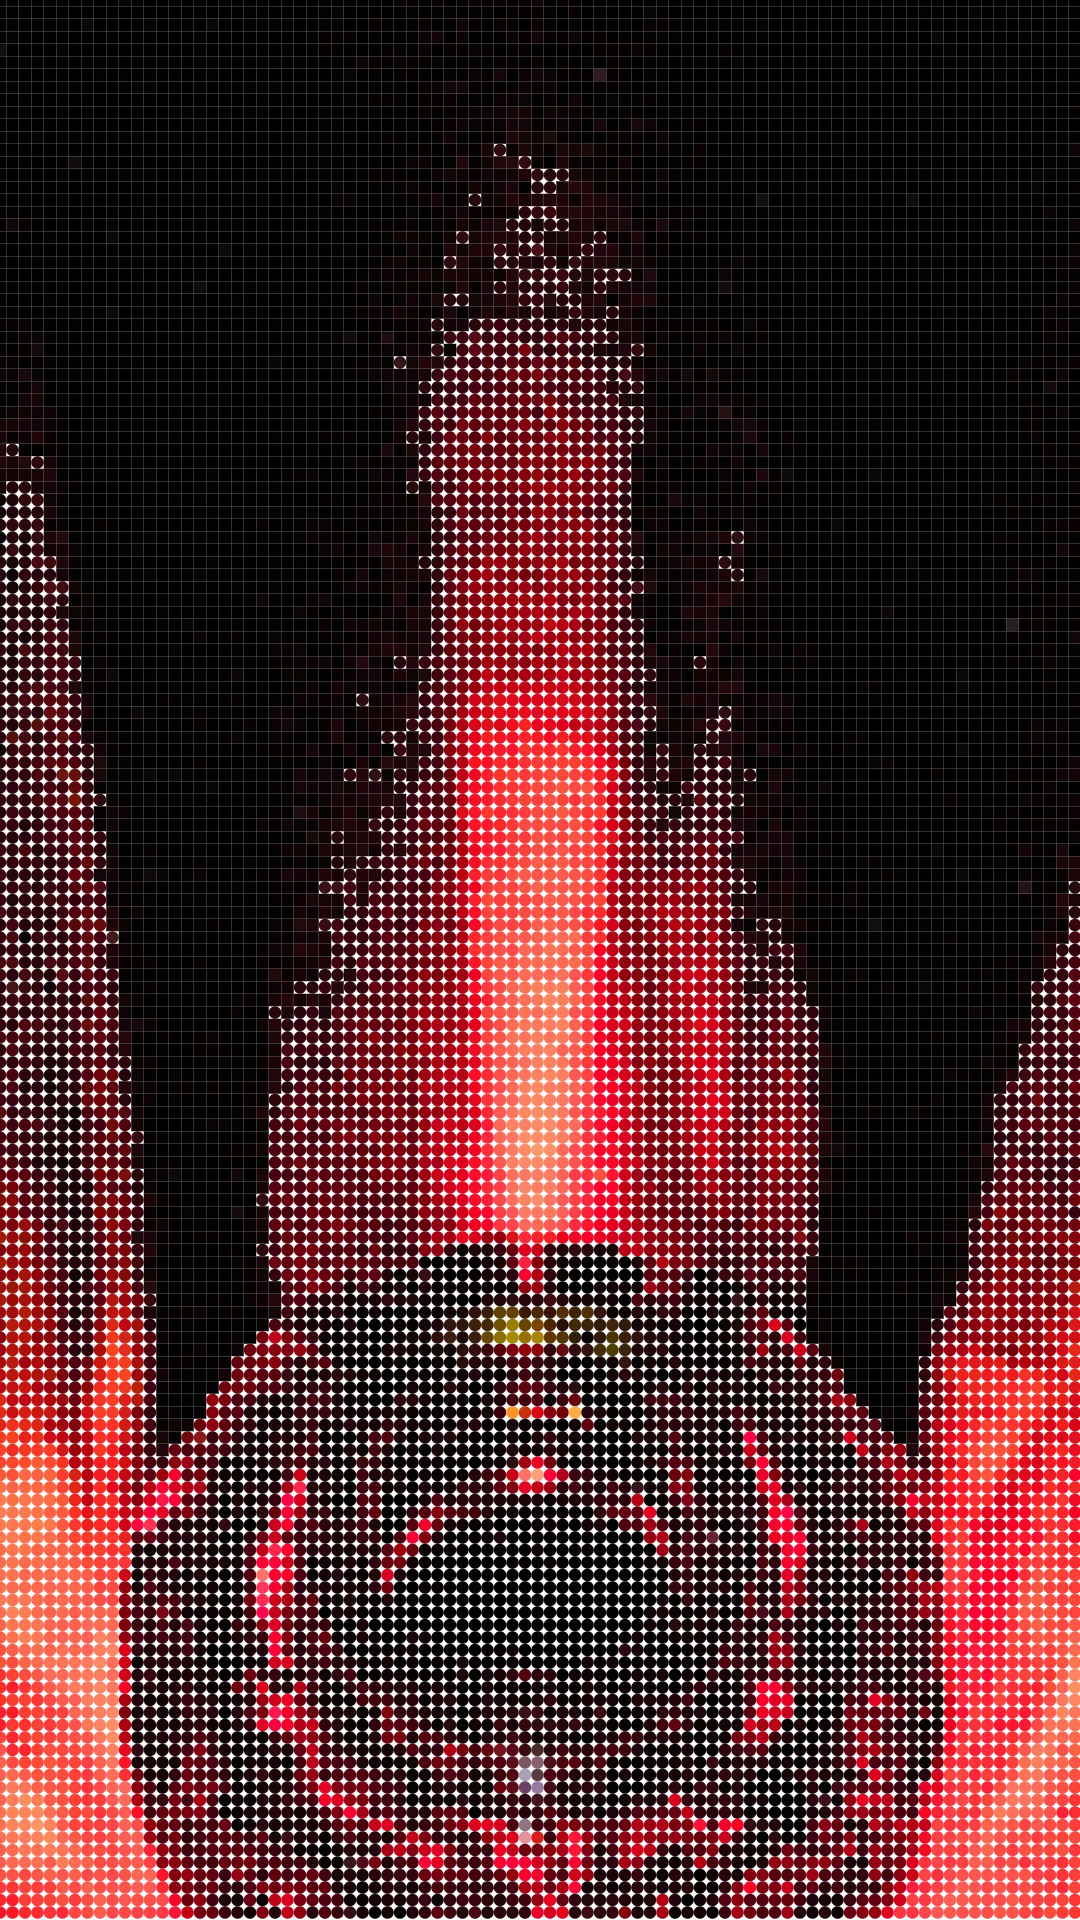
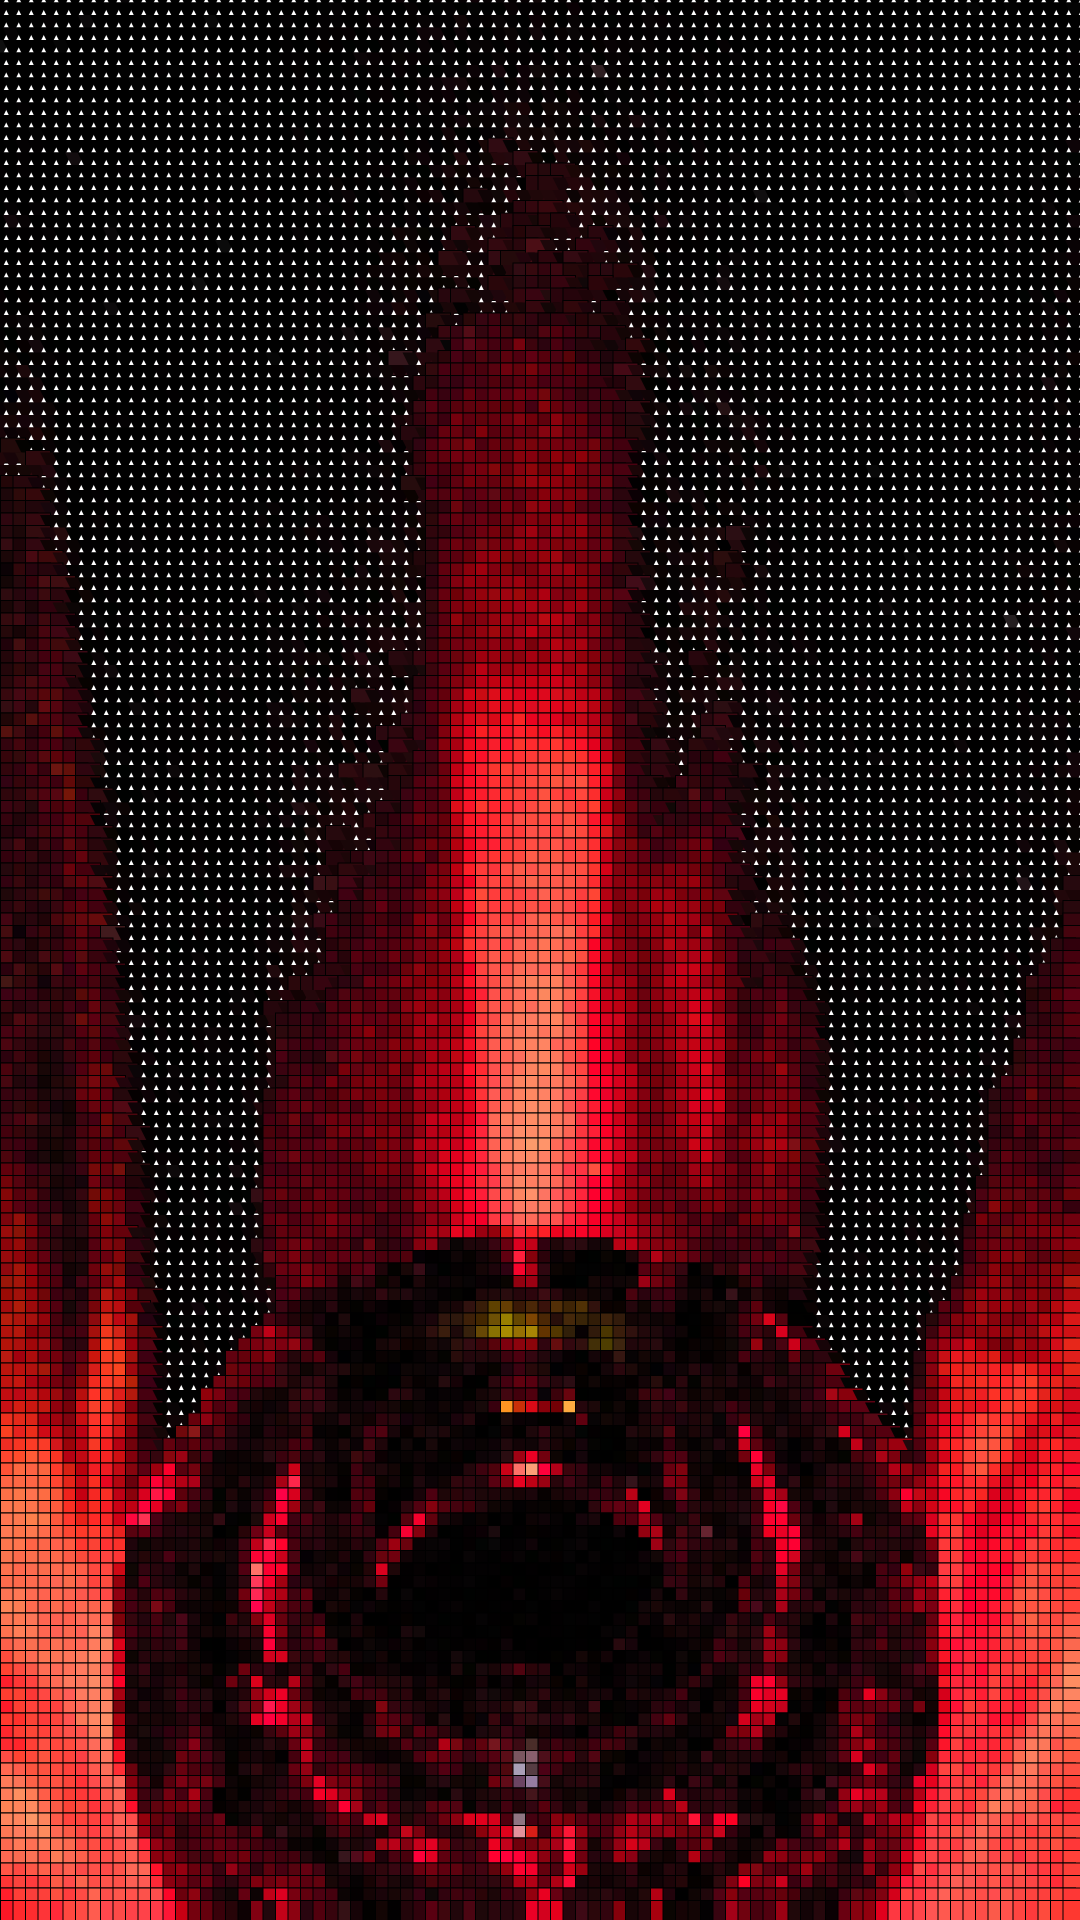
Played with code and updated image #2 and README

diff --git a/sketch.js b/sketch.js
@@ -1,6 +1,6 @@
 let sourceImg=null;
 let maskImg=null;
-let CurRow=0;
+let renderCounter=0;
 
 function preload() {
   sourceImg = loadImage("input_2.jpg");
@@ -12,42 +12,56 @@ function setup () {
   main_canvas.parent('canvasContainer');
 
   imageMode(CENTER);
+  rectMode(CENTER);
   noStroke();
   background(255);
   sourceImg.loadPixels();
   maskImg.loadPixels();
 }
 
-let pointSize = 12.5;
+// let pointSize = 12.5;
+let triSize = 10;
+let elementSpacing = 12.5;
+let squareSize = 12.5
+let circleSize = 12.5
 
 function draw () {
-  for(let i=0;i<1080/pointSize;i++) {
+  for(let i=0;i<1080/elementSpacing;i++) {
     // let x = floor(random(sourceImg.width));
     // let y = floor(random(sourceImg.height));
-    let x = i * pointSize;
-    let y = CurRow * pointSize;
+    let x = i * elementSpacing;
+    let y = renderCounter * elementSpacing;
     let pix = sourceImg.get(x, y);
     let mask = maskImg.get(x, y);
    
-    let halfSize = pointSize/2;
+    let halfSize = squareSize/2;
     fill(pix);
+    push();
     if(mask[0] > 128) {
-      ellipse(x, y, pointSize, pointSize);  
+      stroke(0)
+      rect(x, y, squareSize*2, squareSize*2);
+      // fill(255, 100, 0);
+      // ellipse(x, y, circleSize, circleSize);
+      pop();
+      // triangle(x, y, x-halfSize, y-pointSize, x+halfSize, y-pointSize);
 
     }
     else {
-      rect(x-halfSize, y-halfSize, pointSize, pointSize);    
+      // rect(x-halfSize, y-halfSize, pointSize, pointSize); 
+      triangle(x, y+10, x-triSize, y-triSize, x+triSize, y-triSize);
+      // fill(100);   
+      // triangle(x, y+10, x-triSize/2, y-triSize/2, x+triSize/2, y-triSize/2);   
 
     }
 
   }
-  CurRow = CurRow + 1;
-  if(CurRow*pointSize > 1920) {
+  renderCounter = renderCounter + 1;
+  if(renderCounter*elementSpacing > 1920) {
     console.log("Done!")
     noLoop();
     // saveBlocksImages();
   }    
-  console.log(1*CurRow);
+  console.log(1*renderCounter);
 }
 
 function keyTyped() {

diff --git a/README.md b/README.md
@@ -1,4 +1,9 @@
 ## Creative Coding 2: Custom Pixel
 
 As of right now I do not know what kind of image I will go for. I believe I may go for something like landscapes and city skylines or even portraits.
-Currently I have 3 images from my year one DSDN144 photographics project 2 which looked at light. My thought process for this project was to show big name companies products in a type of evil light.
+
+UPDATE #1
+Currently I have a image of Scarlett Johansson that I edited years ago, an image of my MDDN241 Porject 2 model, and Vincent Van Gogh's famous starry night.
+
+UPDATE #2
+Currently I have 3 images from my year one DSDN144 photographics project 2 which looked at light. My thought process for this project was to show big name companies products in a type of evil light. I am trying to figure out how I can shape the code to best represent this idea.
